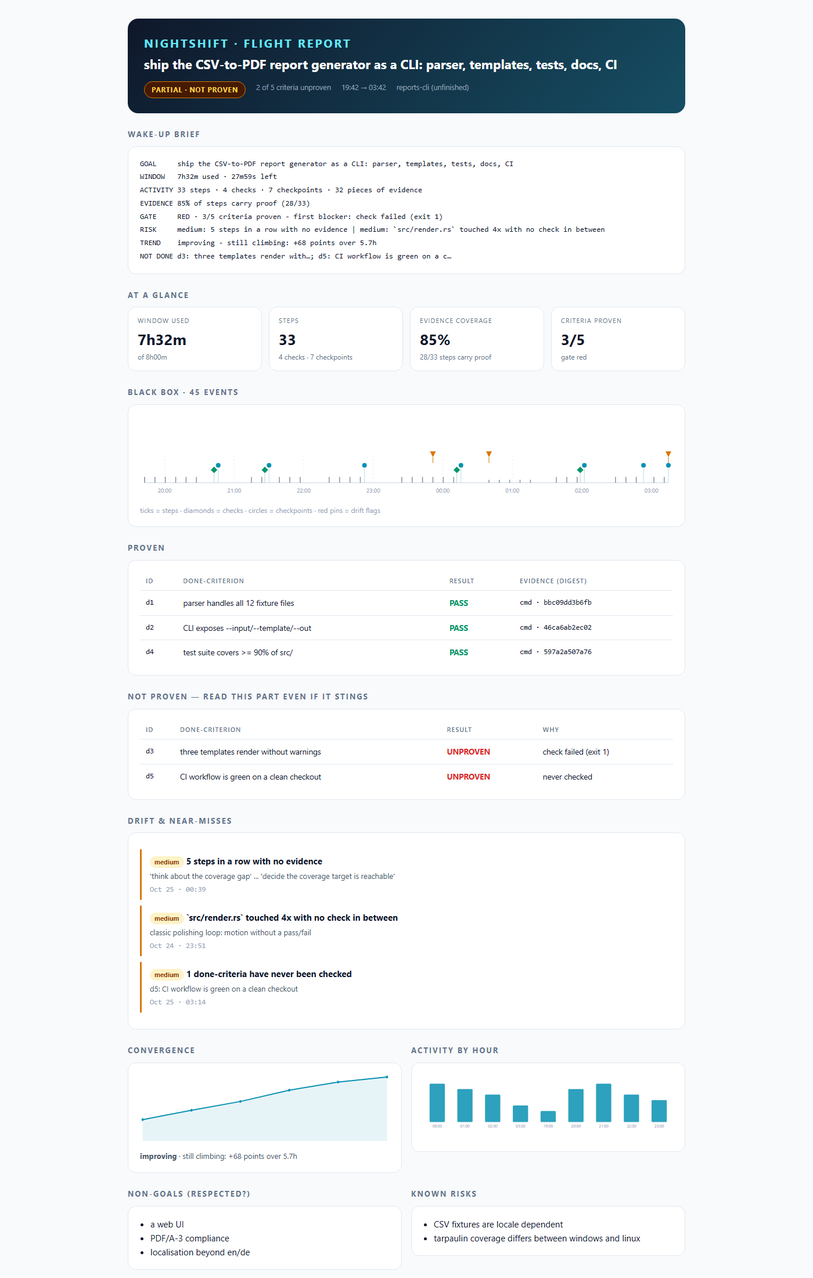
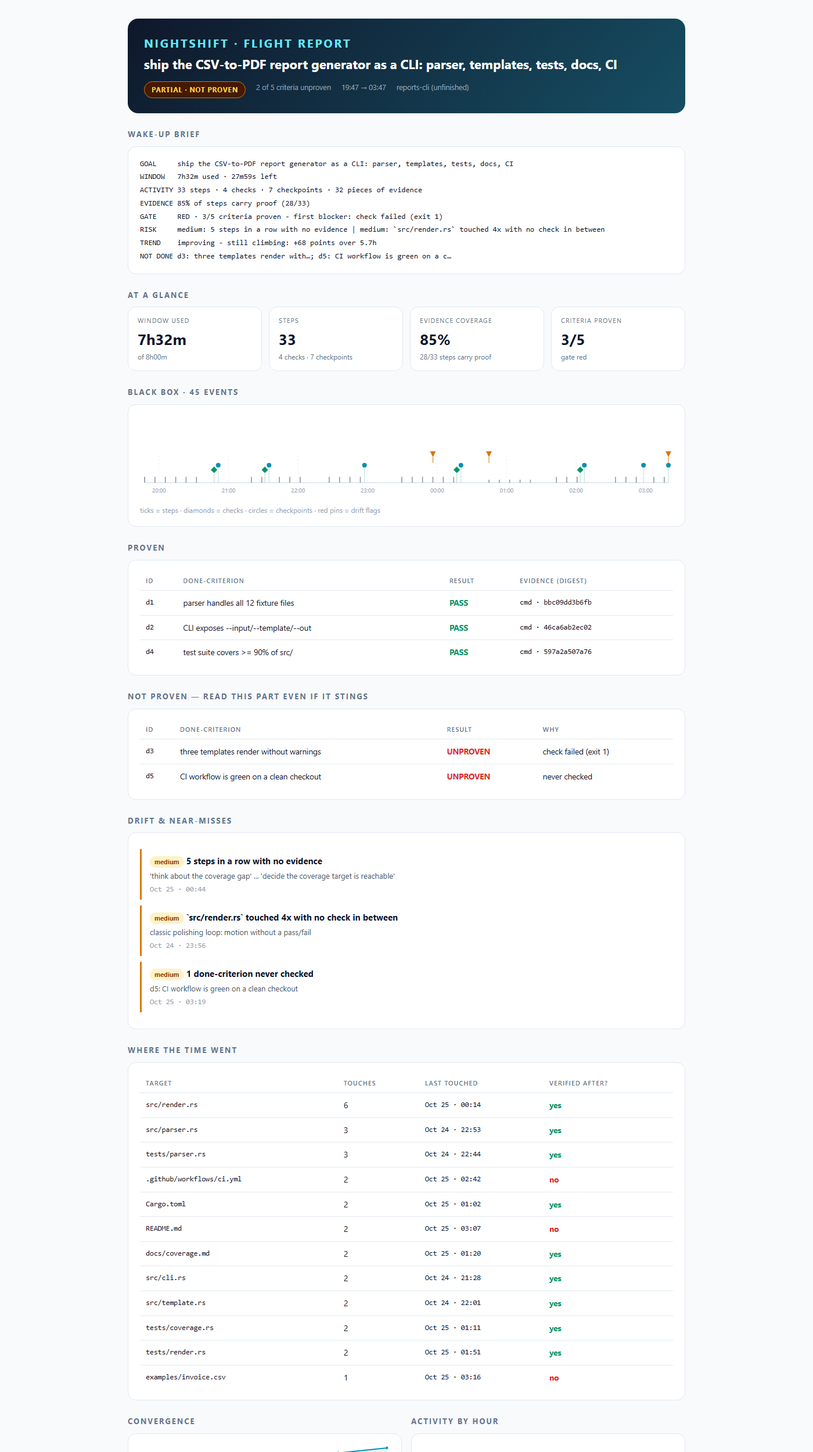
report: a 'Where the time went' table
A reviewer's first question about an overnight run is what it actually touched,
and the second is whether anything verified that afterwards. The report now
answers both per --target, and says 'no' out loud when a file was edited after
the last check.

Adds analysis.targets() + two tests (45 total) and regenerates both screenshots.

diff --git a/.nightshift/reports/flight-report.html b/.nightshift/reports/flight-report.html
@@ -66,8 +66,8 @@ footer{margin-top:34px;font-size:12px;color:var(--muted);text-align:center;line-
 <section>
   <h2>Wake-up brief</h2>
   <div class="card"><pre class="brief">GOAL     Ship NIGHTSHIFT v0.1: a skill plus a zero-dependency CLI that turns a long unattended agent run…
-WINDOW   28m21s used · 7h12m left
-ACTIVITY 11 steps · 17 checks · 3 checkpoints · 33 pieces of evidence
+WINDOW   30m33s used · 7h10m left
+ACTIVITY 11 steps · 22 checks · 3 checkpoints · 38 pieces of evidence
 EVIDENCE 100% of steps carry proof (11/11)
 GATE     GREEN · 5/5 criteria proven
 RISK     no structural drift flags
@@ -76,12 +76,12 @@ TREND    improving - still climbing: +37 points over 0.2h</pre></div>
 
 <section>
   <h2>At a glance</h2>
-  <div class="cards"><div class="stat"><div class="k">window used</div><div class="v">28m21s</div><div class="s">of 7h40m</div></div><div class="stat"><div class="k">steps</div><div class="v">11</div><div class="s">17 checks · 3 checkpoints</div></div><div class="stat"><div class="k">evidence coverage</div><div class="v">100%</div><div class="s">11/11 steps carry proof</div></div><div class="stat"><div class="k">criteria proven</div><div class="v">5/5</div><div class="s">gate green</div></div></div>
+  <div class="cards"><div class="stat"><div class="k">window used</div><div class="v">30m33s</div><div class="s">of 7h40m</div></div><div class="stat"><div class="k">steps</div><div class="v">11</div><div class="s">22 checks · 3 checkpoints</div></div><div class="stat"><div class="k">evidence coverage</div><div class="v">100%</div><div class="s">11/11 steps carry proof</div></div><div class="stat"><div class="k">criteria proven</div><div class="v">5/5</div><div class="s">gate green</div></div></div>
 </section>
 
 <section>
-  <h2>Black box · 32 events</h2>
-  <div class="card"><svg viewBox="0 0 920 140" width="100%" height="140" role="img"><line x1="8" y1="116" x2="912" y2="116" stroke="#e2e8f0" stroke-width="2"/><line x1="348.9" y1="70" x2="348.9" y2="116" stroke="#e2e8f0" stroke-width="1" stroke-dasharray="2 4"/><text x="348.9" y="133" font-size="10" fill="#94a3b8" text-anchor="middle">03:00</text><line x1="8.0" y1="106" x2="8.0" y2="116" stroke="#94a3b8" stroke-width="2"/><line x1="310.0" y1="116" x2="310.0" y2="106.0" stroke="#0f172a" stroke-width="1.6" stroke-opacity="0.45"><title>pre-plan work (02:38-03:05): surveyed the skill ecosystem, …</title></line><line x1="310.6" y1="116" x2="310.6" y2="106.0" stroke="#0f172a" stroke-width="1.6" stroke-opacity="0.45"><title>wrote the black box: append-only events, hashed evidence, f…</title></line><line x1="310.6" y1="116" x2="310.6" y2="106.0" stroke="#0f172a" stroke-width="1.6" stroke-opacity="0.45"><title>wrote the judgement layer: evidence gate, 4 drift heuristic…</title></line><line x1="310.6" y1="116" x2="310.6" y2="106.0" stroke="#0f172a" stroke-width="1.6" stroke-opacity="0.45"><title>built the flight report renderer (self-contained HTML + han…</title></line><line x1="310.6" y1="116" x2="310.6" y2="106.0" stroke="#0f172a" stroke-width="1.6" stroke-opacity="0.45"><title>built the 15-case labelled bench; first run had 3 false pos…</title></line><line x1="310.6" y1="116" x2="310.6" y2="106.0" stroke="#0f172a" stroke-width="1.6" stroke-opacity="0.45"><title>wrote SKILL.md: seven laws, bootstrap, forbidden moves, deg…</title></line><line x1="311.1" y1="116" x2="311.1" y2="106.0" stroke="#0f172a" stroke-width="1.6" stroke-opacity="0.45"><title>rendered the terminal demo from a real CLI session</title></line><line x1="311.1" y1="116" x2="311.1" y2="106.0" stroke="#0f172a" stroke-width="1.6" stroke-opacity="0.45"><title>rendered the 33s vertical cut for social</title></line><circle cx="311.1" cy="86.0" r="4" fill="#0891b2"><title>checkpoint core + docs + assets done; next: social copy, publish, final self-audit</title></circle><line x1="311.1" y1="91.0" x2="311.1" y2="116" stroke="#0891b2" stroke-opacity="0.3"/><line x1="438.7" y1="116" x2="438.7" y2="106.0" stroke="#0f172a" stroke-width="1.6" stroke-opacity="0.45"><title>demoted the topical detector after measuring it against 15 …</title></line><line x1="438.7" y1="116" x2="438.7" y2="106.0" stroke="#0f172a" stroke-width="1.6" stroke-opacity="0.45"><title>wrote the launch kit: douyin, xiaohongshu, x thread, HN, zh…</title></line><circle cx="439.3" cy="86.0" r="4" fill="#0891b2"><title>checkpoint core + docs + assets + launch kit done; next: review, examples, final gate</title></circle><line x1="439.3" y1="91.0" x2="439.3" y2="116" stroke="#0891b2" stroke-opacity="0.3"/><line x1="675.4" y1="116" x2="675.4" y2="106.0" stroke="#0f172a" stroke-width="1.6" stroke-opacity="0.45"><title>spawned a reviewer agent; it found 6 defects including a 3.…</title></line><circle cx="675.4" cy="86.0" r="4" fill="#0891b2"><title>checkpoint review fixes landed; next: final gate, README numbers, acceptance report</title></circle><line x1="675.4" y1="91.0" x2="675.4" y2="116" stroke="#0891b2" stroke-opacity="0.3"/><rect x="719.8" y="90.0" width="8" height="8" fill="#059669" transform="rotate(45 723.8 94.0)"><title>check check d1: test suite green</title></rect><line x1="723.8" y1="100.0" x2="723.8" y2="116" stroke="#059669" stroke-opacity="0.35"/><rect x="719.8" y="90.0" width="8" height="8" fill="#059669" transform="rotate(45 723.8 94.0)"><title>check check d2: detector bench f1 &gt;= 0.85</title></rect><line x1="723.8" y1="100.0" x2="723.8" y2="116" stroke="#059669" stroke-opacity="0.35"/><rect x="719.8" y="90.0" width="8" height="8" fill="#059669" transform="rotate(45 723.8 94.0)"><title>check check d3: flight report renders</title></rect><line x1="723.8" y1="100.0" x2="723.8" y2="116" stroke="#059669" stroke-opacity="0.35"/><rect x="719.8" y="90.0" width="8" height="8" fill="#059669" transform="rotate(45 723.8 94.0)"><title>check check d4: docs and skill exist</title></rect><line x1="723.8" y1="100.0" x2="723.8" y2="116" stroke="#059669" stroke-opacity="0.35"/><rect x="720.3" y="90.0" width="8" height="8" fill="#059669" transform="rotate(45 724.3 94.0)"><title>check check d5: demo assets exist</title></rect><line x1="724.3" y1="100.0" x2="724.3" y2="116" stroke="#059669" stroke-opacity="0.35"/><rect x="760.7" y="90.0" width="8" height="8" fill="#059669" transform="rotate(45 764.7 94.0)"><title>check check d1: test suite green</title></rect><line x1="764.7" y1="100.0" x2="764.7" y2="116" stroke="#059669" stroke-opacity="0.35"/><rect x="761.2" y="90.0" width="8" height="8" fill="#059669" transform="rotate(45 765.2 94.0)"><title>check check d2: detector bench f1 &gt;= 0.85</title></rect><line x1="765.2" y1="100.0" x2="765.2" y2="116" stroke="#059669" stroke-opacity="0.35"/><rect x="761.2" y="90.0" width="8" height="8" fill="#059669" transform="rotate(45 765.2 94.0)"><title>check check d3: flight report renders</title></rect><line x1="765.2" y1="100.0" x2="765.2" y2="116" stroke="#059669" stroke-opacity="0.35"/><rect x="761.2" y="90.0" width="8" height="8" fill="#059669" transform="rotate(45 765.2 94.0)"><title>check check d4: docs and skill exist</title></rect><line x1="765.2" y1="100.0" x2="765.2" y2="116" stroke="#059669" stroke-opacity="0.35"/><rect x="761.2" y="90.0" width="8" height="8" fill="#059669" transform="rotate(45 765.2 94.0)"><title>check check d5: demo assets exist</title></rect><line x1="765.2" y1="100.0" x2="765.2" y2="116" stroke="#059669" stroke-opacity="0.35"/><rect x="832.5" y="90.0" width="8" height="8" fill="#059669" transform="rotate(45 836.5 94.0)"><title>check check d1: test suite green</title></rect><line x1="836.5" y1="100.0" x2="836.5" y2="116" stroke="#059669" stroke-opacity="0.35"/><rect x="832.5" y="90.0" width="8" height="8" fill="#059669" transform="rotate(45 836.5 94.0)"><title>check check d2: detector bench f1 &gt;= 0.85</title></rect><line x1="836.5" y1="100.0" x2="836.5" y2="116" stroke="#059669" stroke-opacity="0.35"/><rect x="832.5" y="90.0" width="8" height="8" fill="#059669" transform="rotate(45 836.5 94.0)"><title>check check d3: flight report renders</title></rect><line x1="836.5" y1="100.0" x2="836.5" y2="116" stroke="#059669" stroke-opacity="0.35"/><rect x="832.5" y="90.0" width="8" height="8" fill="#059669" transform="rotate(45 836.5 94.0)"><title>check check d4: docs and skill exist</title></rect><line x1="836.5" y1="100.0" x2="836.5" y2="116" stroke="#059669" stroke-opacity="0.35"/><rect x="833.0" y="90.0" width="8" height="8" fill="#059669" transform="rotate(45 837.0 94.0)"><title>check check d5: demo assets exist</title></rect><line x1="837.0" y1="100.0" x2="837.0" y2="116" stroke="#059669" stroke-opacity="0.35"/><rect x="908.0" y="90.0" width="8" height="8" fill="#059669" transform="rotate(45 912.0 94.0)"><title>check check d1: test suite green</title></rect><line x1="912.0" y1="100.0" x2="912.0" y2="116" stroke="#059669" stroke-opacity="0.35"/><rect x="908.0" y="90.0" width="8" height="8" fill="#059669" transform="rotate(45 912.0 94.0)"><title>check check d2: detector bench f1 &gt;= 0.85</title></rect><line x1="912.0" y1="100.0" x2="912.0" y2="116" stroke="#059669" stroke-opacity="0.35"/><polygon points="311.1,72 306.1,62 316.1,62" fill="#d97706"><title>plan overlap 0.10 over the last 6 steps</title></polygon><line x1="311.1" y1="72" x2="311.1" y2="82" stroke="#d97706" stroke-width="1"/></svg>
+  <h2>Black box · 37 events</h2>
+  <div class="card"><svg viewBox="0 0 920 140" width="100%" height="140" role="img"><line x1="8" y1="116" x2="912" y2="116" stroke="#e2e8f0" stroke-width="2"/><line x1="324.1" y1="70" x2="324.1" y2="116" stroke="#e2e8f0" stroke-width="1" stroke-dasharray="2 4"/><text x="324.1" y="133" font-size="10" fill="#94a3b8" text-anchor="middle">03:00</text><line x1="8.0" y1="106" x2="8.0" y2="116" stroke="#94a3b8" stroke-width="2"/><line x1="288.1" y1="116" x2="288.1" y2="106.0" stroke="#0f172a" stroke-width="1.6" stroke-opacity="0.45"><title>pre-plan work (02:38-03:05): surveyed the skill ecosystem, …</title></line><line x1="288.6" y1="116" x2="288.6" y2="106.0" stroke="#0f172a" stroke-width="1.6" stroke-opacity="0.45"><title>wrote the black box: append-only events, hashed evidence, f…</title></line><line x1="288.6" y1="116" x2="288.6" y2="106.0" stroke="#0f172a" stroke-width="1.6" stroke-opacity="0.45"><title>wrote the judgement layer: evidence gate, 4 drift heuristic…</title></line><line x1="288.6" y1="116" x2="288.6" y2="106.0" stroke="#0f172a" stroke-width="1.6" stroke-opacity="0.45"><title>built the flight report renderer (self-contained HTML + han…</title></line><line x1="288.6" y1="116" x2="288.6" y2="106.0" stroke="#0f172a" stroke-width="1.6" stroke-opacity="0.45"><title>built the 15-case labelled bench; first run had 3 false pos…</title></line><line x1="288.6" y1="116" x2="288.6" y2="106.0" stroke="#0f172a" stroke-width="1.6" stroke-opacity="0.45"><title>wrote SKILL.md: seven laws, bootstrap, forbidden moves, deg…</title></line><line x1="289.1" y1="116" x2="289.1" y2="106.0" stroke="#0f172a" stroke-width="1.6" stroke-opacity="0.45"><title>rendered the terminal demo from a real CLI session</title></line><line x1="289.1" y1="116" x2="289.1" y2="106.0" stroke="#0f172a" stroke-width="1.6" stroke-opacity="0.45"><title>rendered the 33s vertical cut for social</title></line><circle cx="289.1" cy="86.0" r="4" fill="#0891b2"><title>checkpoint core + docs + assets done; next: social copy, publish, final self-audit</title></circle><line x1="289.1" y1="91.0" x2="289.1" y2="116" stroke="#0891b2" stroke-opacity="0.3"/><line x1="407.5" y1="116" x2="407.5" y2="106.0" stroke="#0f172a" stroke-width="1.6" stroke-opacity="0.45"><title>demoted the topical detector after measuring it against 15 …</title></line><line x1="407.5" y1="116" x2="407.5" y2="106.0" stroke="#0f172a" stroke-width="1.6" stroke-opacity="0.45"><title>wrote the launch kit: douyin, xiaohongshu, x thread, HN, zh…</title></line><circle cx="408.0" cy="86.0" r="4" fill="#0891b2"><title>checkpoint core + docs + assets + launch kit done; next: review, examples, final gate</title></circle><line x1="408.0" y1="91.0" x2="408.0" y2="116" stroke="#0891b2" stroke-opacity="0.3"/><line x1="626.9" y1="116" x2="626.9" y2="106.0" stroke="#0f172a" stroke-width="1.6" stroke-opacity="0.45"><title>spawned a reviewer agent; it found 6 defects including a 3.…</title></line><circle cx="626.9" cy="86.0" r="4" fill="#0891b2"><title>checkpoint review fixes landed; next: final gate, README numbers, acceptance report</title></circle><line x1="626.9" y1="91.0" x2="626.9" y2="116" stroke="#0891b2" stroke-opacity="0.3"/><rect x="667.8" y="90.0" width="8" height="8" fill="#059669" transform="rotate(45 671.8 94.0)"><title>check check d1: test suite green</title></rect><line x1="671.8" y1="100.0" x2="671.8" y2="116" stroke="#059669" stroke-opacity="0.35"/><rect x="667.8" y="90.0" width="8" height="8" fill="#059669" transform="rotate(45 671.8 94.0)"><title>check check d2: detector bench f1 &gt;= 0.85</title></rect><line x1="671.8" y1="100.0" x2="671.8" y2="116" stroke="#059669" stroke-opacity="0.35"/><rect x="667.8" y="90.0" width="8" height="8" fill="#059669" transform="rotate(45 671.8 94.0)"><title>check check d3: flight report renders</title></rect><line x1="671.8" y1="100.0" x2="671.8" y2="116" stroke="#059669" stroke-opacity="0.35"/><rect x="667.8" y="90.0" width="8" height="8" fill="#059669" transform="rotate(45 671.8 94.0)"><title>check check d4: docs and skill exist</title></rect><line x1="671.8" y1="100.0" x2="671.8" y2="116" stroke="#059669" stroke-opacity="0.35"/><rect x="668.3" y="90.0" width="8" height="8" fill="#059669" transform="rotate(45 672.3 94.0)"><title>check check d5: demo assets exist</title></rect><line x1="672.3" y1="100.0" x2="672.3" y2="116" stroke="#059669" stroke-opacity="0.35"/><rect x="705.8" y="90.0" width="8" height="8" fill="#059669" transform="rotate(45 709.8 94.0)"><title>check check d1: test suite green</title></rect><line x1="709.8" y1="100.0" x2="709.8" y2="116" stroke="#059669" stroke-opacity="0.35"/><rect x="706.3" y="90.0" width="8" height="8" fill="#059669" transform="rotate(45 710.3 94.0)"><title>check check d2: detector bench f1 &gt;= 0.85</title></rect><line x1="710.3" y1="100.0" x2="710.3" y2="116" stroke="#059669" stroke-opacity="0.35"/><rect x="706.3" y="90.0" width="8" height="8" fill="#059669" transform="rotate(45 710.3 94.0)"><title>check check d3: flight report renders</title></rect><line x1="710.3" y1="100.0" x2="710.3" y2="116" stroke="#059669" stroke-opacity="0.35"/><rect x="706.3" y="90.0" width="8" height="8" fill="#059669" transform="rotate(45 710.3 94.0)"><title>check check d4: docs and skill exist</title></rect><line x1="710.3" y1="100.0" x2="710.3" y2="116" stroke="#059669" stroke-opacity="0.35"/><rect x="706.3" y="90.0" width="8" height="8" fill="#059669" transform="rotate(45 710.3 94.0)"><title>check check d5: demo assets exist</title></rect><line x1="710.3" y1="100.0" x2="710.3" y2="116" stroke="#059669" stroke-opacity="0.35"/><rect x="772.4" y="90.0" width="8" height="8" fill="#059669" transform="rotate(45 776.4 94.0)"><title>check check d1: test suite green</title></rect><line x1="776.4" y1="100.0" x2="776.4" y2="116" stroke="#059669" stroke-opacity="0.35"/><rect x="772.4" y="90.0" width="8" height="8" fill="#059669" transform="rotate(45 776.4 94.0)"><title>check check d2: detector bench f1 &gt;= 0.85</title></rect><line x1="776.4" y1="100.0" x2="776.4" y2="116" stroke="#059669" stroke-opacity="0.35"/><rect x="772.4" y="90.0" width="8" height="8" fill="#059669" transform="rotate(45 776.4 94.0)"><title>check check d3: flight report renders</title></rect><line x1="776.4" y1="100.0" x2="776.4" y2="116" stroke="#059669" stroke-opacity="0.35"/><rect x="772.4" y="90.0" width="8" height="8" fill="#059669" transform="rotate(45 776.4 94.0)"><title>check check d4: docs and skill exist</title></rect><line x1="776.4" y1="100.0" x2="776.4" y2="116" stroke="#059669" stroke-opacity="0.35"/><rect x="772.9" y="90.0" width="8" height="8" fill="#059669" transform="rotate(45 776.9 94.0)"><title>check check d5: demo assets exist</title></rect><line x1="776.9" y1="100.0" x2="776.9" y2="116" stroke="#059669" stroke-opacity="0.35"/><rect x="842.4" y="90.0" width="8" height="8" fill="#059669" transform="rotate(45 846.4 94.0)"><title>check check d1: test suite green</title></rect><line x1="846.4" y1="100.0" x2="846.4" y2="116" stroke="#059669" stroke-opacity="0.35"/><rect x="842.4" y="90.0" width="8" height="8" fill="#059669" transform="rotate(45 846.4 94.0)"><title>check check d2: detector bench f1 &gt;= 0.85</title></rect><line x1="846.4" y1="100.0" x2="846.4" y2="116" stroke="#059669" stroke-opacity="0.35"/><rect x="842.9" y="90.0" width="8" height="8" fill="#059669" transform="rotate(45 846.9 94.0)"><title>check check d3: flight report renders</title></rect><line x1="846.9" y1="100.0" x2="846.9" y2="116" stroke="#059669" stroke-opacity="0.35"/><rect x="842.9" y="90.0" width="8" height="8" fill="#059669" transform="rotate(45 846.9 94.0)"><title>check check d4: docs and skill exist</title></rect><line x1="846.9" y1="100.0" x2="846.9" y2="116" stroke="#059669" stroke-opacity="0.35"/><rect x="842.9" y="90.0" width="8" height="8" fill="#059669" transform="rotate(45 846.9 94.0)"><title>check check d5: demo assets exist</title></rect><line x1="846.9" y1="100.0" x2="846.9" y2="116" stroke="#059669" stroke-opacity="0.35"/><rect x="908.0" y="90.0" width="8" height="8" fill="#059669" transform="rotate(45 912.0 94.0)"><title>check check d1: test suite green</title></rect><line x1="912.0" y1="100.0" x2="912.0" y2="116" stroke="#059669" stroke-opacity="0.35"/><rect x="908.0" y="90.0" width="8" height="8" fill="#059669" transform="rotate(45 912.0 94.0)"><title>check check d2: detector bench f1 &gt;= 0.85</title></rect><line x1="912.0" y1="100.0" x2="912.0" y2="116" stroke="#059669" stroke-opacity="0.35"/><polygon points="289.1,72 284.1,62 294.1,62" fill="#d97706"><title>plan overlap 0.10 over the last 6 steps</title></polygon><line x1="289.1" y1="72" x2="289.1" y2="82" stroke="#d97706" stroke-width="1"/></svg>
     <div style="font-size:12px;color:#94a3b8;margin-top:8px">
       ticks = steps · diamonds = checks · circles = checkpoints · red pins = drift flags
     </div>
@@ -92,7 +92,7 @@ TREND    improving - still climbing: +37 points over 0.2h</pre></div>
   <h2>Proven</h2>
   <div class="card"><table>
     <tr><th>ID</th><th>Done-criterion</th><th>Result</th><th>Evidence (digest)</th></tr>
-    <tr><td class="mono">d1</td><td>test suite green</td><td class="ok">PASS</td><td class="mono">cmd · e5501d9dd02a</td></tr><tr><td class="mono">d2</td><td>detector bench f1 &gt;= 0.85</td><td class="ok">PASS</td><td class="mono">cmd · e3b0c44298fc</td></tr><tr><td class="mono">d3</td><td>flight report renders</td><td class="ok">PASS</td><td class="mono">cmd · 2dc679ccd219</td></tr><tr><td class="mono">d4</td><td>docs and skill exist</td><td class="ok">PASS</td><td class="mono">cmd · dffeabf4f449</td></tr><tr><td class="mono">d5</td><td>demo assets exist</td><td class="ok">PASS</td><td class="mono">cmd · 72bbfd7caa2f</td></tr>
+    <tr><td class="mono">d1</td><td>test suite green</td><td class="ok">PASS</td><td class="mono">cmd · 257c27a426c7</td></tr><tr><td class="mono">d2</td><td>detector bench f1 &gt;= 0.85</td><td class="ok">PASS</td><td class="mono">cmd · e3b0c44298fc</td></tr><tr><td class="mono">d3</td><td>flight report renders</td><td class="ok">PASS</td><td class="mono">cmd · a65b48f4ad8b</td></tr><tr><td class="mono">d4</td><td>docs and skill exist</td><td class="ok">PASS</td><td class="mono">cmd · a86b3ca65488</td></tr><tr><td class="mono">d5</td><td>demo assets exist</td><td class="ok">PASS</td><td class="mono">cmd · 72bbfd7caa2f</td></tr>
   </table></div>
 </section>
 
@@ -109,9 +109,17 @@ TREND    improving - still climbing: +37 points over 0.2h</pre></div>
   <div class="card"><div class="finding low"><span class="pill low">low</span> <strong>plan overlap 0.10 over the last 6 steps</strong><div style="color:#475569;font-size:13px;margin-top:4px">advisory, not a verdict: the words moved away from the flight plan. Confirm this is still the same task. Recent intents: built the flight report renderer (self-conta / built the 15-case labelled bench; first run  / wrote SKILL.md: seven laws, bootstrap, forbi</div><div class="mono" style="color:#94a3b8;margin-top:2px">Oct 25 · 02:58</div></div></div>
 </section>
 
+<section>
+  <h2>Where the time went</h2>
+  <div class="card"><table>
+    <tr><th>target</th><th>touches</th><th>last touched</th><th>verified after?</th></tr>
+    <tr><td colspan="4" class="empty">no step recorded a --target</td></tr>
+  </table></div>
+</section>
+
 <section class="grid2">
   <div><h2>Convergence</h2><div class="card"><svg viewBox="0 0 560 120" width="100%" height="120" preserveAspectRatio="none" role="img"><path d="M6.0,76.2 L280.0,54.6 L554.0,36.24 L554.0,116 L6.0,116 Z" fill="#0891b2" fill-opacity="0.10" stroke="none"/><path d="M6.0,76.2 L280.0,54.6 L554.0,36.24" fill="none" stroke="#0891b2" stroke-width="2" stroke-linejoin="round" stroke-linecap="round"/><circle cx="6.0" cy="76.2" r="2.4" fill="#0891b2"/><circle cx="280.0" cy="54.6" r="2.4" fill="#0891b2"/><circle cx="554.0" cy="36.24" r="2.4" fill="#0891b2"/></svg><div style="font-size:13px;color:#475569;margin-top:6px"><strong>improving</strong> · still climbing: +37 points over 0.2h</div></div></div>
-  <div><h2>Activity by hour</h2><div class="card"><svg viewBox="0 0 560 110" width="100%" height="110" role="img"><rect x="63.0" y="52.9" width="154.0" height="39.1" rx="2" fill="#0891b2" fill-opacity="0.85"><title>02:00: 10</title></rect><text x="140.0" y="105" font-size="9" fill="#94a3b8" text-anchor="middle">02:00</text><rect x="343.0" y="6.0" width="154.0" height="86.0" rx="2" fill="#0891b2" fill-opacity="0.85"><title>03:00: 22</title></rect><text x="420.0" y="105" font-size="9" fill="#94a3b8" text-anchor="middle">03:00</text></svg></div></div>
+  <div><h2>Activity by hour</h2><div class="card"><svg viewBox="0 0 560 110" width="100%" height="110" role="img"><rect x="63.0" y="60.1" width="154.0" height="31.9" rx="2" fill="#0891b2" fill-opacity="0.85"><title>02:00: 10</title></rect><text x="140.0" y="105" font-size="9" fill="#94a3b8" text-anchor="middle">02:00</text><rect x="343.0" y="6.0" width="154.0" height="86.0" rx="2" fill="#0891b2" fill-opacity="0.85"><title>03:00: 27</title></rect><text x="420.0" y="105" font-size="9" fill="#94a3b8" text-anchor="middle">03:00</text></svg></div></div>
 </section>
 
 <section class="grid2">
@@ -123,12 +131,12 @@ TREND    improving - still climbing: +37 points over 0.2h</pre></div>
   <h2>Appendix · last 40 events</h2>
   <div class="card"><table>
     <tr><th>time</th><th>id</th><th>kind</th><th>intent</th><th>#ev</th></tr>
-    <tr><td class="mono">02:49:19</td><td class="mono">e000001</td><td>init</td><td>Ship NIGHTSHIFT v0.1: a skill plus a zero-dependency CLI that turns a long unattended agent run…</td><td class="mono">0</td></tr><tr><td class="mono">02:58:47</td><td class="mono">e000002</td><td>step</td><td>pre-plan work (02:38-03:05): surveyed the skill ecosystem, rejected evidence-audit and failure-…</td><td class="mono">1</td></tr><tr><td class="mono">02:58:48</td><td class="mono">e000003</td><td>step</td><td>wrote the black box: append-only events, hashed evidence, flight plan</td><td class="mono">2</td></tr><tr><td class="mono">02:58:48</td><td class="mono">e000004</td><td>step</td><td>wrote the judgement layer: evidence gate, 4 drift heuristics, convergence</td><td class="mono">1</td></tr><tr><td class="mono">02:58:48</td><td class="mono">e000005</td><td>step</td><td>built the flight report renderer (self-contained HTML + hand-rolled SVG)</td><td class="mono">2</td></tr><tr><td class="mono">02:58:48</td><td class="mono">e000006</td><td>step</td><td>built the 15-case labelled bench; first run had 3 false positives, fixed tokenizer stemming + c…</td><td class="mono">2</td></tr><tr><td class="mono">02:58:48</td><td class="mono">e000007</td><td>step</td><td>wrote SKILL.md: seven laws, bootstrap, forbidden moves, degraded mode</td><td class="mono">1</td></tr><tr><td class="mono">02:58:49</td><td class="mono">e000008</td><td>step</td><td>rendered the terminal demo from a real CLI session</td><td class="mono">1</td></tr><tr><td class="mono">02:58:49</td><td class="mono">e000009</td><td>step</td><td>rendered the 33s vertical cut for social</td><td class="mono">1</td></tr><tr><td class="mono">02:58:49</td><td class="mono">e000010</td><td>tick</td><td>core + docs + assets done; next: social copy, publish, final self-audit</td><td class="mono">0</td></tr><tr><td class="mono">03:02:49</td><td class="mono">e000011</td><td>step</td><td>demoted the topical detector after measuring it against 15 labelled runs; split bench into stru…</td><td class="mono">2</td></tr><tr><td class="mono">03:02:49</td><td class="mono">e000012</td><td>step</td><td>wrote the launch kit: douyin, xiaohongshu, x thread, HN, zhihu, v2ex, cover</td><td class="mono">1</td></tr><tr><td class="mono">03:02:50</td><td class="mono">e000013</td><td>tick</td><td>core + docs + assets + launch kit done; next: review, examples, final gate</td><td class="mono">0</td></tr><tr><td class="mono">03:10:14</td><td class="mono">e000014</td><td>step</td><td>spawned a reviewer agent; it found 6 defects including a 3.10-only API that would have broken e…</td><td class="mono">2</td></tr><tr><td class="mono">03:10:14</td><td class="mono">e000015</td><td>tick</td><td>review fixes landed; next: final gate, README numbers, acceptance report</td><td class="mono">0</td></tr><tr><td class="mono">03:11:45</td><td class="mono">e000016</td><td>check</td><td>check d1: test suite green</td><td class="mono">1</td></tr><tr><td class="mono">03:11:45</td><td class="mono">e000017</td><td>check</td><td>check d2: detector bench f1 &gt;= 0.85</td><td class="mono">1</td></tr><tr><td class="mono">03:11:45</td><td class="mono">e000018</td><td>check</td><td>check d3: flight report renders</td><td class="mono">1</td></tr><tr><td class="mono">03:11:45</td><td class="mono">e000019</td><td>check</td><td>check d4: docs and skill exist</td><td class="mono">1</td></tr><tr><td class="mono">03:11:46</td><td class="mono">e000020</td><td>check</td><td>check d5: demo assets exist</td><td class="mono">1</td></tr><tr><td class="mono">03:13:02</td><td class="mono">e000021</td><td>check</td><td>check d1: test suite green</td><td class="mono">1</td></tr><tr><td class="mono">03:13:03</td><td class="mono">e000022</td><td>check</td><td>check d2: detector bench f1 &gt;= 0.85</td><td class="mono">1</td></tr><tr><td class="mono">03:13:03</td><td class="mono">e000023</td><td>check</td><td>check d3: flight report renders</td><td class="mono">1</td></tr><tr><td class="mono">03:13:03</td><td class="mono">e000024</td><td>check</td><td>check d4: docs and skill exist</td><td class="mono">1</td></tr><tr><td class="mono">03:13:03</td><td class="mono">e000025</td><td>check</td><td>check d5: demo assets exist</td><td class="mono">1</td></tr><tr><td class="mono">03:15:17</td><td class="mono">e000026</td><td>check</td><td>check d1: test suite green</td><td class="mono">1</td></tr><tr><td class="mono">03:15:17</td><td class="mono">e000027</td><td>check</td><td>check d2: detector bench f1 &gt;= 0.85</td><td class="mono">1</td></tr><tr><td class="mono">03:15:17</td><td class="mono">e000028</td><td>check</td><td>check d3: flight report renders</td><td class="mono">1</td></tr><tr><td class="mono">03:15:17</td><td class="mono">e000029</td><td>check</td><td>check d4: docs and skill exist</td><td class="mono">1</td></tr><tr><td class="mono">03:15:18</td><td class="mono">e000030</td><td>check</td><td>check d5: demo assets exist</td><td class="mono">1</td></tr><tr><td class="mono">03:17:39</td><td class="mono">e000031</td><td>check</td><td>check d1: test suite green</td><td class="mono">1</td></tr><tr><td class="mono">03:17:39</td><td class="mono">e000032</td><td>check</td><td>check d2: detector bench f1 &gt;= 0.85</td><td class="mono">1</td></tr>
+    <tr><td class="mono">02:49:19</td><td class="mono">e000001</td><td>init</td><td>Ship NIGHTSHIFT v0.1: a skill plus a zero-dependency CLI that turns a long unattended agent run…</td><td class="mono">0</td></tr><tr><td class="mono">02:58:47</td><td class="mono">e000002</td><td>step</td><td>pre-plan work (02:38-03:05): surveyed the skill ecosystem, rejected evidence-audit and failure-…</td><td class="mono">1</td></tr><tr><td class="mono">02:58:48</td><td class="mono">e000003</td><td>step</td><td>wrote the black box: append-only events, hashed evidence, flight plan</td><td class="mono">2</td></tr><tr><td class="mono">02:58:48</td><td class="mono">e000004</td><td>step</td><td>wrote the judgement layer: evidence gate, 4 drift heuristics, convergence</td><td class="mono">1</td></tr><tr><td class="mono">02:58:48</td><td class="mono">e000005</td><td>step</td><td>built the flight report renderer (self-contained HTML + hand-rolled SVG)</td><td class="mono">2</td></tr><tr><td class="mono">02:58:48</td><td class="mono">e000006</td><td>step</td><td>built the 15-case labelled bench; first run had 3 false positives, fixed tokenizer stemming + c…</td><td class="mono">2</td></tr><tr><td class="mono">02:58:48</td><td class="mono">e000007</td><td>step</td><td>wrote SKILL.md: seven laws, bootstrap, forbidden moves, degraded mode</td><td class="mono">1</td></tr><tr><td class="mono">02:58:49</td><td class="mono">e000008</td><td>step</td><td>rendered the terminal demo from a real CLI session</td><td class="mono">1</td></tr><tr><td class="mono">02:58:49</td><td class="mono">e000009</td><td>step</td><td>rendered the 33s vertical cut for social</td><td class="mono">1</td></tr><tr><td class="mono">02:58:49</td><td class="mono">e000010</td><td>tick</td><td>core + docs + assets done; next: social copy, publish, final self-audit</td><td class="mono">0</td></tr><tr><td class="mono">03:02:49</td><td class="mono">e000011</td><td>step</td><td>demoted the topical detector after measuring it against 15 labelled runs; split bench into stru…</td><td class="mono">2</td></tr><tr><td class="mono">03:02:49</td><td class="mono">e000012</td><td>step</td><td>wrote the launch kit: douyin, xiaohongshu, x thread, HN, zhihu, v2ex, cover</td><td class="mono">1</td></tr><tr><td class="mono">03:02:50</td><td class="mono">e000013</td><td>tick</td><td>core + docs + assets + launch kit done; next: review, examples, final gate</td><td class="mono">0</td></tr><tr><td class="mono">03:10:14</td><td class="mono">e000014</td><td>step</td><td>spawned a reviewer agent; it found 6 defects including a 3.10-only API that would have broken e…</td><td class="mono">2</td></tr><tr><td class="mono">03:10:14</td><td class="mono">e000015</td><td>tick</td><td>review fixes landed; next: final gate, README numbers, acceptance report</td><td class="mono">0</td></tr><tr><td class="mono">03:11:45</td><td class="mono">e000016</td><td>check</td><td>check d1: test suite green</td><td class="mono">1</td></tr><tr><td class="mono">03:11:45</td><td class="mono">e000017</td><td>check</td><td>check d2: detector bench f1 &gt;= 0.85</td><td class="mono">1</td></tr><tr><td class="mono">03:11:45</td><td class="mono">e000018</td><td>check</td><td>check d3: flight report renders</td><td class="mono">1</td></tr><tr><td class="mono">03:11:45</td><td class="mono">e000019</td><td>check</td><td>check d4: docs and skill exist</td><td class="mono">1</td></tr><tr><td class="mono">03:11:46</td><td class="mono">e000020</td><td>check</td><td>check d5: demo assets exist</td><td class="mono">1</td></tr><tr><td class="mono">03:13:02</td><td class="mono">e000021</td><td>check</td><td>check d1: test suite green</td><td class="mono">1</td></tr><tr><td class="mono">03:13:03</td><td class="mono">e000022</td><td>check</td><td>check d2: detector bench f1 &gt;= 0.85</td><td class="mono">1</td></tr><tr><td class="mono">03:13:03</td><td class="mono">e000023</td><td>check</td><td>check d3: flight report renders</td><td class="mono">1</td></tr><tr><td class="mono">03:13:03</td><td class="mono">e000024</td><td>check</td><td>check d4: docs and skill exist</td><td class="mono">1</td></tr><tr><td class="mono">03:13:03</td><td class="mono">e000025</td><td>check</td><td>check d5: demo assets exist</td><td class="mono">1</td></tr><tr><td class="mono">03:15:17</td><td class="mono">e000026</td><td>check</td><td>check d1: test suite green</td><td class="mono">1</td></tr><tr><td class="mono">03:15:17</td><td class="mono">e000027</td><td>check</td><td>check d2: detector bench f1 &gt;= 0.85</td><td class="mono">1</td></tr><tr><td class="mono">03:15:17</td><td class="mono">e000028</td><td>check</td><td>check d3: flight report renders</td><td class="mono">1</td></tr><tr><td class="mono">03:15:17</td><td class="mono">e000029</td><td>check</td><td>check d4: docs and skill exist</td><td class="mono">1</td></tr><tr><td class="mono">03:15:18</td><td class="mono">e000030</td><td>check</td><td>check d5: demo assets exist</td><td class="mono">1</td></tr><tr><td class="mono">03:17:39</td><td class="mono">e000031</td><td>check</td><td>check d1: test suite green</td><td class="mono">1</td></tr><tr><td class="mono">03:17:39</td><td class="mono">e000032</td><td>check</td><td>check d2: detector bench f1 &gt;= 0.85</td><td class="mono">1</td></tr><tr><td class="mono">03:17:40</td><td class="mono">e000033</td><td>check</td><td>check d3: flight report renders</td><td class="mono">1</td></tr><tr><td class="mono">03:17:40</td><td class="mono">e000034</td><td>check</td><td>check d4: docs and skill exist</td><td class="mono">1</td></tr><tr><td class="mono">03:17:40</td><td class="mono">e000035</td><td>check</td><td>check d5: demo assets exist</td><td class="mono">1</td></tr><tr><td class="mono">03:19:52</td><td class="mono">e000036</td><td>check</td><td>check d1: test suite green</td><td class="mono">1</td></tr><tr><td class="mono">03:19:52</td><td class="mono">e000037</td><td>check</td><td>check d2: detector bench f1 &gt;= 0.85</td><td class="mono">1</td></tr>
   </table></div>
 </section>
 
 <footer>
-  Generated by <span class="mono">nightshift 0.1.0</span> at 2026-10-25T03:17:40+08:00<br>
+  Generated by <span class="mono">nightshift 0.1.0</span> at 2026-10-25T03:19:52+08:00<br>
   This report is derived from an append-only log. Re-render it yourself:
   <span class="mono">nsh report --html</span> — the digests above are sha256 of captured bytes.
 </footer>

diff --git a/nightshift/report.py b/nightshift/report.py
@@ -110,6 +110,7 @@ def model(analysis: dict[str, Any], project: str = "") -> dict[str, Any]:
         "risks": contract.get("risks") or [],
         "events": analysis["events"],
         "hourly": analysis["hourly"],
+        "targets": analysis.get("targets", []),
         "coverage": analysis["coverage_series"],
         "generated": util.iso(),
     }
@@ -179,6 +180,17 @@ def render_html(m: dict[str, Any]) -> str:
             + f'<div style="font-size:13px;color:#475569;margin-top:6px">'
               f'<strong>{_e(conv["state"])}</strong> · {_e(conv.get("why", ""))}</div>'
         )
+
+    target_rows_cells = []
+    for t in m.get("targets") or []:
+        verified = '<span class="ok">yes</span>' if t["verified_after"] else '<span class="no">no</span>'
+        target_rows_cells.append(
+            f'<tr><td class="mono">{_e(t["target"])}</td><td>{int(t["touches"])}</td>'
+            f'<td class="mono">{_e(_when(t["last"]))}</td><td>{verified}</td></tr>'
+        )
+    target_rows = "".join(target_rows_cells) or (
+        '<tr><td colspan="4" class="empty">no step recorded a --target</td></tr>'
+    )
 
     hourly_html = svg.bar_chart(m["hourly"], width=560, height=110, color=svg.CYAN) if m["hourly"] else ""
     timeline_svg = svg.timeline(m["events"], findings, width=920, height=140)
@@ -253,6 +265,14 @@ def render_html(m: dict[str, Any]) -> str:
 <section>
   <h2>Drift &amp; near-misses</h2>
   <div class="card">{findings_html}</div>
+</section>
+
+<section>
+  <h2>Where the time went</h2>
+  <div class="card"><table>
+    <tr><th>target</th><th>touches</th><th>last touched</th><th>verified after?</th></tr>
+    {target_rows}
+  </table></div>
 </section>
 
 <section class="grid2">
@@ -337,6 +357,16 @@ def render_md(m: dict[str, Any]) -> str:
             lines.append(f"- **{f['severity']}** · {f['title']} — {f['detail']} ({f.get('at', '')})")
     else:
         lines.append("_no drift flags_")
+    lines += ["", "## Where the time went", ""]
+    if m.get("targets"):
+        lines += ["| target | touches | last touched | verified after |", "| --- | --- | --- | --- |"]
+        for t in m["targets"]:
+            lines.append(
+                "| `%s` | %d | %s | %s |"
+                % (t["target"], int(t["touches"]), _when(t["last"]), "yes" if t["verified_after"] else "no")
+            )
+    else:
+        lines.append("_no step recorded a --target_")
     lines += ["", "## Convergence", "", f"{m['convergence'].get('state')} — {m['convergence'].get('why', '')}", ""]
     lines += ["## Non-goals", ""] + [f"- {x}" for x in m["non_goals"]] + [""]
     lines += ["## Known risks", ""] + [f"- {x}" for x in m["risks"]] + [""]

diff --git a/nightshift/analysis.py b/nightshift/analysis.py
@@ -393,6 +393,44 @@ def quick_stats(contract: dict, events: Sequence[dict]) -> dict[str, Any]:
     }
 
 
+def targets(events: Sequence[dict], limit: int = 12) -> list[dict[str, Any]]:
+    """Where the steps went, per `--target`, and whether a check followed.
+
+    A reviewer's first question about an overnight run is "what did it actually
+    touch", and the second is "did anything verify that afterwards".
+    """
+    rows: dict[str, dict[str, Any]] = {}
+    last_check_idx = -1
+    for i, ev in enumerate(events):
+        kind = ev.get("kind")
+        if kind == "check":
+            last_check_idx = i
+            continue
+        if kind != "step":
+            continue
+        target = (ev.get("target") or "").strip()
+        if not target:
+            continue
+        row = rows.get(target)
+        if row is None:
+            row = rows[target] = {"target": target, "touches": 0, "first": ev.get("ts", ""),
+                                  "last": ev.get("ts", ""), "last_idx": i}
+        row["touches"] += 1
+        row["last"] = ev.get("ts", "")
+        row["last_idx"] = i
+    out = []
+    for row in rows.values():
+        out.append({
+            "target": row["target"],
+            "touches": row["touches"],
+            "first": row["first"],
+            "last": row["last"],
+            "verified_after": last_check_idx > row["last_idx"],
+        })
+    out.sort(key=lambda r: (-r["touches"], r["target"]))
+    return out[:limit]
+
+
 def hourly(events: Sequence[dict]) -> list[tuple[str, int]]:
     """Event counts bucketed by hour, for the activity chart."""
     if not events:
@@ -507,5 +545,6 @@ def analyse(store) -> dict[str, Any]:
         "verdict": v,
         "brief": brief(contract, events, stats, g, conv, findings),
         "hourly": hourly(events),
+        "targets": targets(events),
         "coverage_series": coverage_series(events),
     }

diff --git a/tests/test_core.py b/tests/test_core.py
@@ -187,6 +187,28 @@ class TestDrift(unittest.TestCase):
 
 
 # --------------------------------------------------------------------------- #
+# targets
+# --------------------------------------------------------------------------- #
+
+class TestTargets(unittest.TestCase):
+    def test_counts_touches_and_whether_a_check_followed(self):
+        events = [
+            ev(1, "step", "edit a", target="a.py"),
+            ev(2, "step", "edit a again", target="a.py"),
+            ev(3, "check", "check d1", check={"id": "d1", "passed": True, "exit": 0}),
+            ev(4, "step", "edit b", target="b.py"),
+        ]
+        rows = {r["target"]: r for r in analysis.targets(events)}
+        self.assertEqual(rows["a.py"]["touches"], 2)
+        self.assertTrue(rows["a.py"]["verified_after"])
+        self.assertFalse(rows["b.py"]["verified_after"])
+
+    def test_ignores_steps_without_a_target(self):
+        events = [ev(1, "step", "no target here"), ev(2, "step", "edit a", target="a.py")]
+        self.assertEqual([r["target"] for r in analysis.targets(events)], ["a.py"])
+
+
+# --------------------------------------------------------------------------- #
 # convergence
 # --------------------------------------------------------------------------- #
 

diff --git a/README.md b/README.md
@@ -135,6 +135,7 @@ One file, no CDN, no JavaScript, printable:
 - **Black-box timeline** — every step, check and checkpoint, drift flags pinned to the moment they happened.
 - **Proven / Not proven** — side by side, each with a sha256 of the captured bytes.
 - **Drift & near-misses** — the churn loop, the silent stretch, the thing that almost went wrong at 04:10.
+- **Where the time went** — every `--target`, how often it was touched, and whether a check followed.
 - **Convergence + activity** — was hour seven worth it?
 
 There is also a 33-second vertical cut for people who would rather watch than

diff --git a/CHANGELOG.md b/CHANGELOG.md
@@ -19,7 +19,8 @@ First public release.
   low-severity topical advisory.
 - Convergence detection from checkpoints carrying `--progress`.
 - Self-contained HTML flight report (no JS, no CDN) with a mandatory
-  **Not proven** section, and a ten-line wake-up brief.
+  **Not proven** section, a ten-line wake-up brief, and a *Where the time went*
+  table (every `--target`, how often it was touched, whether a check followed).
 
 **Interfaces**
 
